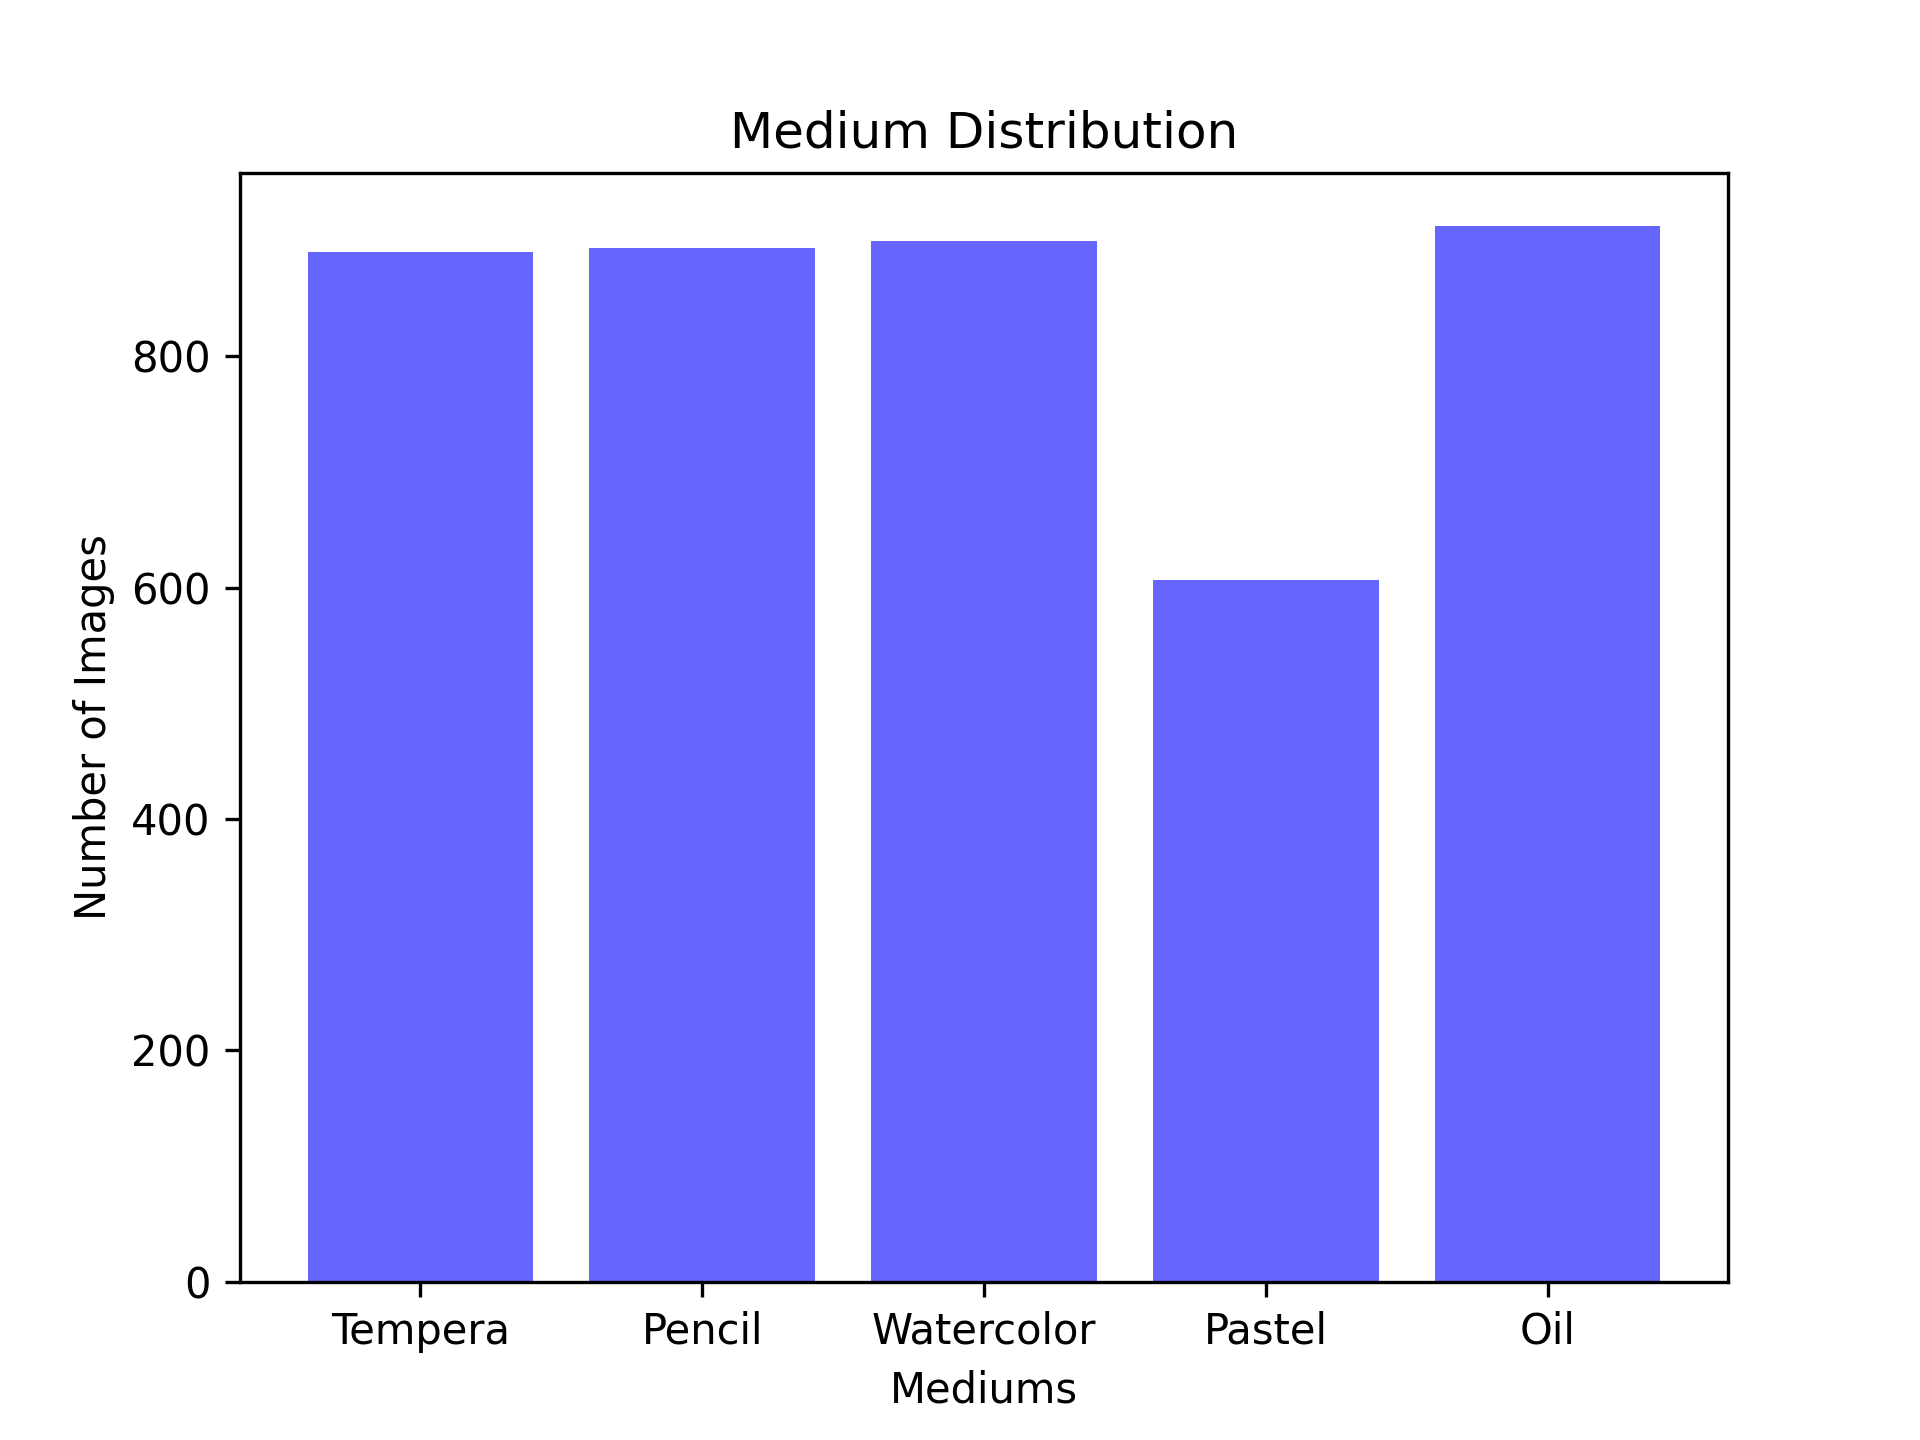
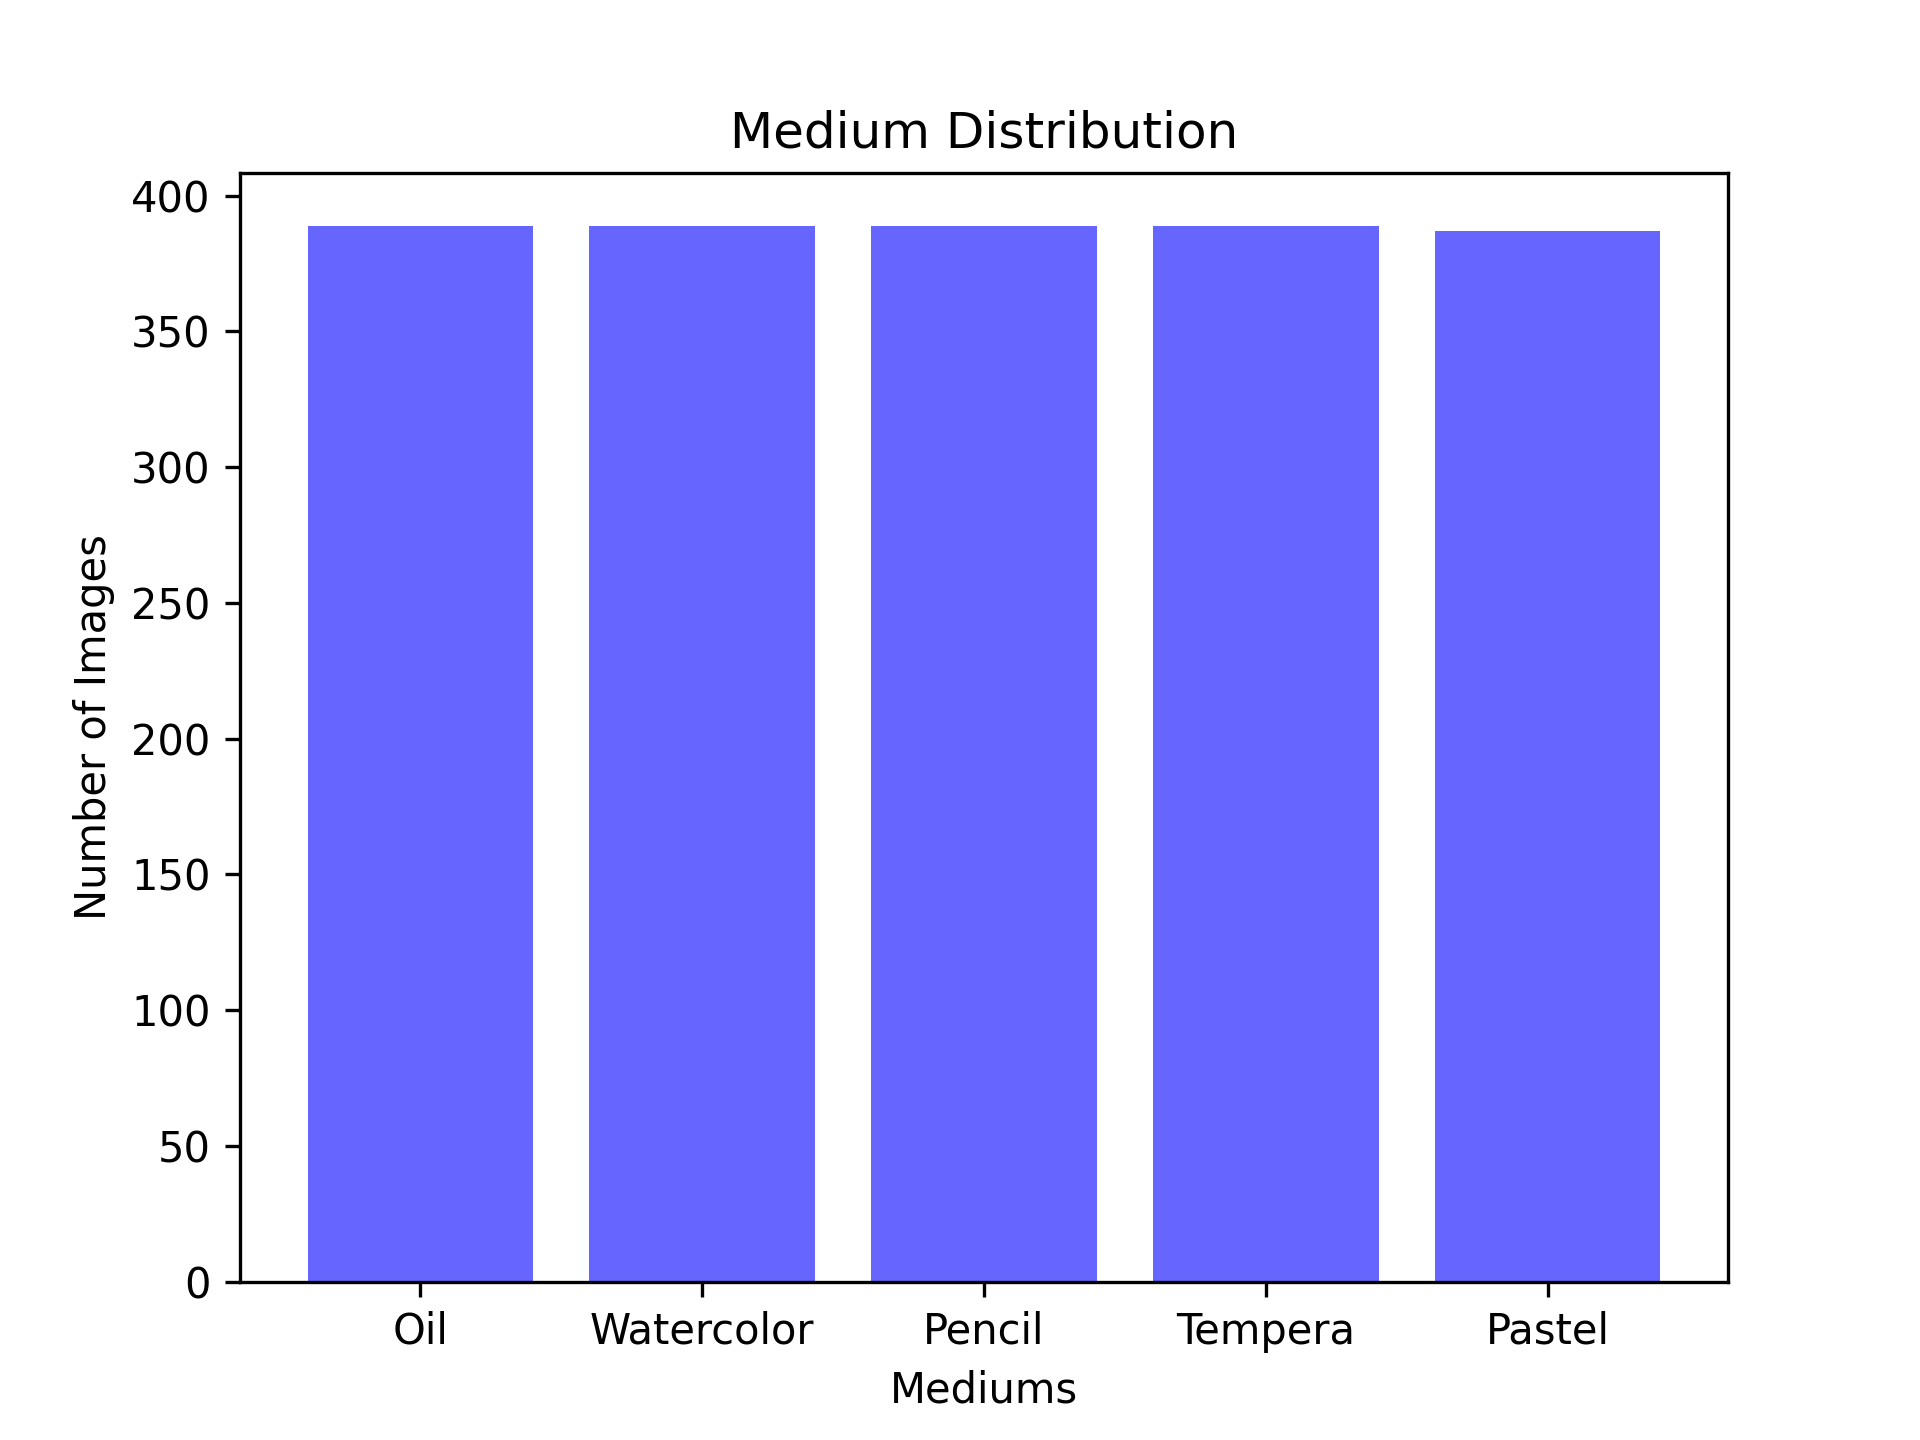
Implement evenly distributed dataset
- Now, it will be done automatically

diff --git a/src/data/make_dataset.py b/src/data/make_dataset.py
@@ -222,13 +222,14 @@ def handle_chicago():
             i += 1
 
 
-def copy_images(src, dest, image_list):
+def copy_images(image_list, dest):
     """
     Copies an image from source directory to a destination directory.
     """
     create_dir(dest)
-    for image_name in image_list:
-        shutil.copy(f'{src}/{image_name}', f'{dest}/{image_name}')
+    for image_path in image_list:
+        image_name = image_path.split('/')[-1]
+        shutil.copy(image_path, f'{dest}/{image_name}')
 
 
 def get_test_images():
@@ -246,61 +247,60 @@ def get_test_images():
     return res_dict
 
 
+def patch_image():
+    pass
+
+
 def make_data_split():
     """
     Creates the training, validation, and testing data sets.
     """
-    # Check to make sure testing images never make it in the training dataset
+    # Contains images used in all prior testing datasets
     test_images = get_test_images()
+    image_dict = {'oil': [], 'watercolor': [], 'pencil': [], 'tempera': [], 'pastel': []}
+    data_dirs = ['modern_art', 'national_goa', 'metropolitan']
 
-    des_dirs = ['modern_art', 'national_goa', 'metropolitan']
+    for directory in data_dirs:
+        mediums_lst = [medium for medium in os.listdir(f'{DATA_FP}/processed/{directory}')]
+        for medium in mediums_lst:
+            medium_path = f'{DATA_FP}/processed/{directory}/{medium}'
+            images = [f'{medium_path}/{image}' for image in os.listdir(medium_path) if image not in test_images[medium]]
+            prior_test_images = [f'{medium_path}/{image}' for image in os.listdir(medium_path) if
+                                 image in test_images[medium]]
 
-    for curr_dir in des_dirs:
-        mediums = [medium for medium in os.listdir(f'{DATA_FP}/processed/{curr_dir}')]
-        for curr_medium in mediums:
-            medium_path = f'{DATA_FP}/processed/{curr_dir}/{curr_medium}'
-            images = [image for image in os.listdir(medium_path) if image not in test_images[curr_medium]]
-            # Testing images from v1
-            last_test = [image for image in os.listdir(medium_path) if image in test_images[curr_medium]]
+            random.shuffle(images)
+            test_images[medium].extend(prior_test_images)
+            image_dict[medium].extend(images)
 
-            # Shrink our dataset to attempt to make each medium close to equal
-            if curr_medium == 'oil':
-                last_test = last_test[0:150]
-                images = images[0:200]
-            elif curr_medium == 'watercolor':
-                last_test = last_test[0:180]
-                images = images[0:200]
-            elif curr_medium == 'pencil':
-                last_test = last_test[0:140]
-                images = images[0:270]
-            # (About) eighty percent of the images shall go to training
-            curr_len = len(images)
+    least_images = math.inf
+    for medium, image_lst in image_dict.items():
+        if len(image_lst) < least_images:
+            least_images = len(image_lst)
 
-            first_slice = int(math.floor(curr_len * 0.8))
-            train_lst = images[0:first_slice]
+    for medium, image_lst in image_dict.items():
+        # Even distribution, give 10 percent to validation and testing datasets
+        image_lst = image_lst[0:least_images]
 
-            # (About) ten percent of the images shall go to validation
-            second_slice = int(first_slice + (math.floor(curr_len * 0.1)))
-            val_lst = images[first_slice:second_slice]
+        num_images = len(image_lst)
+        train_slice = int(math.floor(num_images * 0.8))
+        train_lst = image_lst[0:train_slice]
 
-            # The rest of the images will go to testing (should be around ten percent)
-            test_lst = images[second_slice:]
-            # Append the remaining images used in the last training dataset (Will make our dataset slightly larger than
-            # 10 percent which we're okay with)
-            for image in last_test:
-                test_lst.append(image)
+        val_slice = int(train_slice + (math.floor(num_images * 0.1)))
+        val_lst = image_lst[train_slice:val_slice]
 
-            copy_images(medium_path, f'{DATA_FP}/processed/v{VERSION}/train/{curr_medium}', train_lst)
-            copy_images(medium_path, f'{DATA_FP}/processed/v{VERSION}/val/{curr_medium}', val_lst)
-            copy_images(medium_path, f'{DATA_FP}/processed/v{VERSION}/test/{curr_medium}', test_lst)
+        test_lst = image_lst[val_slice:]
+
+        copy_images(train_lst, f'{DATA_FP}/processed/v{VERSION}/train/{medium}')
+        copy_images(test_lst, f'{DATA_FP}/processed/v{VERSION}/val/{medium}')
+        copy_images(val_lst, f'{DATA_FP}/processed/v{VERSION}/test/{medium}')
 
 
 def main():
     """
     Controls this script.
     """
-    # make_data_split()
-    handle_national_goa()
+    make_data_split()
+    # handle_national_goa()
 
 
 if __name__ == '__main__':

diff --git a/src/visualization/visualize.py b/src/visualization/visualize.py
@@ -30,7 +30,10 @@ def get_data():
                 else:
                     resp_dict['mediums'][medium] += 1
 
-                year = int(file.split('_')[-1].strip('.jpg'))
+                try:
+                    year = int(file.split('_')[-1].strip('.jpg'))
+                except ValueError:
+                    year = 0
                 resp_dict['years'].append(year)
 
                 artist = ''

diff --git a/src/models/train_model.py b/src/models/train_model.py
@@ -119,7 +119,7 @@ def main():
 
     num_classes = 2
     batch_size = 8
-    num_epochs = 5
+    num_epochs = 90
     learn_rate = 0.001
     momentum = 0.9
     version = 1
